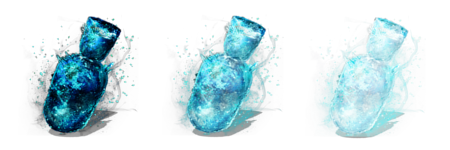
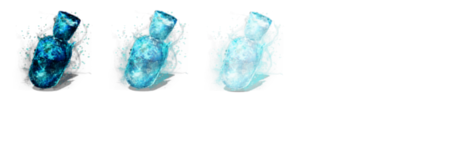
life bar monsters

diff --git a/src/model/HudHeroInfo.java b/src/model/HudHeroInfo.java
@@ -52,7 +52,7 @@ public class HudHeroInfo {
 	 * @throws SlickException
 	 */
 	private void creationAnimationBigFlask() throws SlickException{
-		SpriteSheet spriteSheet = new SpriteSheet("bigFlask", getClass().getResourceAsStream("/flask/images/BigLifeFlask.png"), 150, 150);
+		SpriteSheet spriteSheet = new SpriteSheet("bigFlask", getClass().getResourceAsStream("/flask/images/BigLifeFlask.png"), 100, 100);
 		
 		for (int j = 0 ; j < 3 ; j++){
 			Animation animation = new Animation();
@@ -84,14 +84,14 @@ public class HudHeroInfo {
 	 */
 	private void flaskHUD(Graphics g){
 		if(nbFlaskHero > 5)
-			g.drawAnimation(animationBigFlask[0], 10, 15);
+			g.drawAnimation(animationBigFlask[0], 10, 20);
 		if(nbFlaskHero > 0)
-			g.drawAnimation(animationBigFlask[1], 10, 15);
+			g.drawAnimation(animationBigFlask[1], 10, 20);
 		if(nbFlaskHero == 0)
-			g.drawAnimation(animationBigFlask[2], 10, 15);
+			g.drawAnimation(animationBigFlask[2], 10, 20);
 		g.setColor(Color.white);
 
-		ttf.drawString(110.0f, 120.0f, "x"+ nbFlaskHero, Color.white);
+		ttf.drawString(80.0f, 90.0f, "x"+ nbFlaskHero, Color.white);
 	}
 
 	/**
@@ -101,8 +101,8 @@ public class HudHeroInfo {
 		lifeBarImg.draw(10, 10, 1.0f);
 		
 		float lifeRatio = lifeHero/fullLifeHero;
-		float width = lifeImg.getWidth() * lifeRatio;
-		float height = lifeImg.getHeight();
+		float width = (int)lifeImg.getWidth() * lifeRatio;
+		float height = (int)lifeImg.getHeight();
 		lifeImg.draw(10,12,width,height);
 	}
 	

diff --git a/src/model/Monster.java b/src/model/Monster.java
@@ -3,6 +3,7 @@ package model;
 import org.newdawn.slick.Animation;
 import org.newdawn.slick.Color;
 import org.newdawn.slick.Graphics;
+import org.newdawn.slick.Image;
 import org.newdawn.slick.SlickException;
 import org.newdawn.slick.SpriteSheet;
 import org.newdawn.slick.geom.Vector2f;
@@ -18,6 +19,9 @@ public class Monster extends Character {
 	
 	private boolean moving;	
 	private boolean attack;
+	
+	private Image lifeBarImg;
+	private Image lifeImg;
 	
 	private static final float SPEED = 2.0f;
 	private static final float ATTACK_DISTANCE = 600f;
@@ -41,6 +45,8 @@ public class Monster extends Character {
 		animations = new Animation[8];
 
 		creationAnimations();
+		lifeBarImg = new Image("/res/monsters/images/life_bar.png");
+		lifeImg = new Image("/res/monsters/images/life.jpg");
 	}
 	
 	/**
@@ -169,6 +175,10 @@ public class Monster extends Character {
 				e.printStackTrace();
 			}
 		}
+		
+		// LIFE BAR
+		lifeBarHUD();
+		
 		// --
 	}
 	
@@ -196,6 +206,19 @@ public class Monster extends Character {
 			animations[j+nbDirections] = animation;
 		}
 		//--
+	}
+	
+	/**
+	 * Display the life bar of the monster
+	 */
+	private void lifeBarHUD(){
+		float lifeRatio = life/FULL_LIFE;
+		float width = (int)lifeImg.getWidth() * lifeRatio;
+		float height = (int)lifeImg.getHeight();
+		lifeBarImg.draw(getX() - (int)(width/2), getY() - 60, 1.0f);
+		
+
+		lifeImg.draw(getX() - (int)(width/2) +1, getY()+1 - 60, width, height);
 	}
 	
 }
